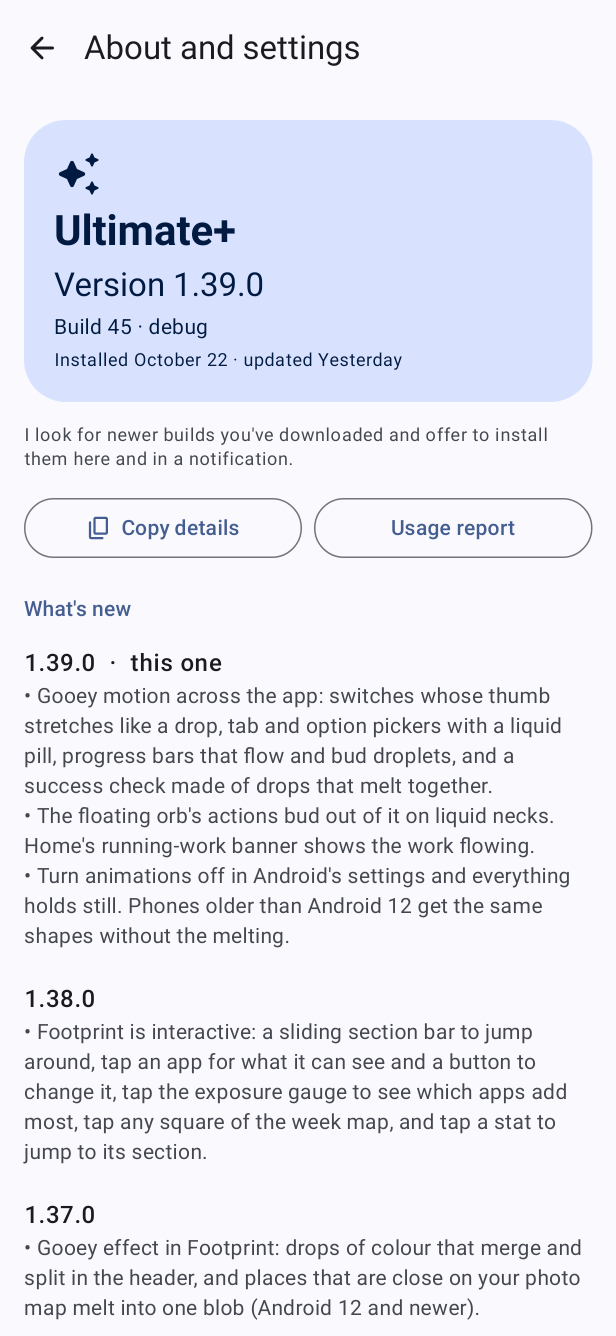
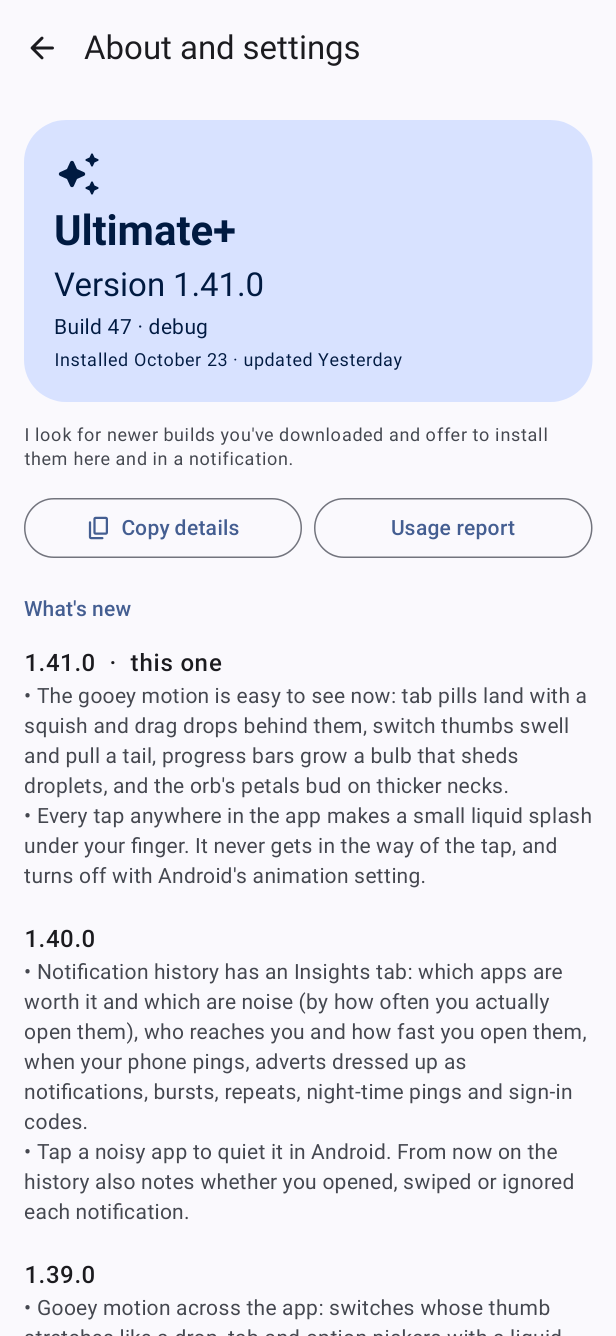
feat(motion): noticeable gooey everywhere: tap splash, squishy tabs, swelling switches, bulb progress (1.41.0)
Claude-Session: https://claude.ai/code/session_01Tx3SnRy1Ho2ASXx4YFffLW

Changed region(s): [[0.0308, 0.491, 0.9562, 1.0], [0.3393, 0.1841, 0.401, 0.2455]]

diff --git a/app/src/main/java/app/ultimate/core/Gooey.kt b/app/src/main/java/app/ultimate/core/Gooey.kt
@@ -59,6 +59,14 @@ import androidx.compose.ui.text.font.FontWeight
 import androidx.compose.ui.text.style.TextAlign
 import androidx.compose.ui.text.style.TextOverflow
 import androidx.compose.ui.unit.dp
+import androidx.compose.animation.core.Animatable
+import androidx.compose.runtime.mutableStateListOf
+import androidx.compose.runtime.rememberCoroutineScope
+import androidx.compose.ui.input.pointer.pointerInput
+import androidx.compose.ui.input.pointer.PointerEventPass
+import androidx.compose.foundation.gestures.awaitEachGesture
+import androidx.compose.foundation.gestures.awaitFirstDown
+import kotlinx.coroutines.launch
 
 /*
  * Gooey building blocks. Each one draws its moving shapes in a single Canvas with Modifier.gooey(), so shapes that
@@ -96,6 +104,26 @@ object GooeyMath {
         return Offset(kotlin.math.cos(a) * d, kotlin.math.sin(a) * d)
     }
 
+    /**
+     * A tap splash at time [t] (0 to 1): a drop swells under the finger, three droplets break off and fly out, then
+     * fall back in and everything shrinks away. Returns (offset from the touch, radius) pairs in units of [unit].
+     */
+    fun splash(t: Float, unit: Float, seed: Int = 0): List<Pair<Offset, Float>> {
+        val k = t.coerceIn(0f, 1f)
+        val core = unit * 16f * when { k < 0.3f -> k / 0.3f; k < 0.6f -> 1f; else -> (1f - k) / 0.4f }
+        // Out until 0.5, back in by 0.9: the droplets leave the drop and melt back into it.
+        val reach = unit * 30f * when { k < 0.15f -> 0f; k < 0.5f -> (k - 0.15f) / 0.35f; k < 0.9f -> (0.9f - k) / 0.4f; else -> 0f }
+        val drop = unit * 7f * when { k < 0.15f -> k / 0.15f; k < 0.85f -> 1f; else -> ((1f - k) / 0.15f) }
+        val turn = (seed % 360) * (Math.PI / 180).toFloat()
+        return listOf(Offset.Zero to core) + (0 until 3).map { i ->
+            val a = turn + (2 * Math.PI * i / 3).toFloat()
+            Offset(kotlin.math.cos(a) * reach, kotlin.math.sin(a) * reach) to drop
+        }
+    }
+
+    /** A thumb swells a little in the middle of its trip, like a drop stretched by moving: 1 at rest, up to 1 + [amount]. */
+    fun swell(pos: Float, amount: Float = 0.3f) = 1f + amount * kotlin.math.sin(Math.PI.toFloat() * pos.coerceIn(0f, 1f))
+
     /** The blobs of a progress bar that does not know how far along it is: x centres, as fractions of the width. */
     fun flowing(phase: Float): List<Float> = listOf(0f to 1f, 0.35f to 1.6f, 0.7f to 0.8f).map { (offset, speed) -> ((phase * speed + offset) % 1f) * 1.3f - 0.15f }
 }
@@ -113,20 +141,24 @@ fun GooeyTabs(labels: List<String>, selected: Int, onSelect: (Int) -> Unit, modi
     val haptics = LocalHapticFeedback.current
     val spots = remember(labels) { mutableStateMapOf<Int, Pair<Float, Float>>() }
     val target = spots[selected]
-    val left by animateFloatAsState(target?.first ?: 0f, moveSpec(motion, Spring.StiffnessMedium), label = "tabL")
-    val width by animateFloatAsState(target?.second ?: 0f, moveSpec(motion, Spring.StiffnessMedium), label = "tabW")
-    val left2 by animateFloatAsState(target?.first ?: 0f, moveSpec(motion, Spring.StiffnessLow), label = "tabL2")
-    val width2 by animateFloatAsState(target?.second ?: 0f, moveSpec(motion, Spring.StiffnessLow), label = "tabW2")
+    // The pill lands with a little squish; two drops follow it at slower speeds, so on the way they hang back on
+    // necks of liquid and are pulled in when the pill stops.
+    val left by animateFloatAsState(target?.first ?: 0f, moveSpec(motion, Spring.StiffnessMediumLow, Spring.DampingRatioLowBouncy), label = "tabL")
+    val width by animateFloatAsState(target?.second ?: 0f, moveSpec(motion, Spring.StiffnessMediumLow, Spring.DampingRatioLowBouncy), label = "tabW")
+    val mid = (target?.first ?: 0f) + (target?.second ?: 0f) / 2
+    val trail1 by animateFloatAsState(mid, moveSpec(motion, Spring.StiffnessLow), label = "tabT1")
+    val trail2 by animateFloatAsState(mid, moveSpec(motion, Spring.StiffnessVeryLow), label = "tabT2")
     val scroll = rememberScrollState()
     if (scrollable) LaunchedEffect(selected, target) { target?.let { scroll.animateScrollTo((it.first - 48f).toInt().coerceAtLeast(0)) } }
     val pill = MaterialTheme.colorScheme.primary
     val outer = if (scrollable) modifier.fillMaxWidth().horizontalScroll(scroll) else modifier.fillMaxWidth().clip(RoundedCornerShape(50)).background(MaterialTheme.colorScheme.surfaceContainerHigh)
     Box(outer.padding(3.dp)) {
-        Canvas(Modifier.matchParentSize().gooey(6f)) {
+        Canvas(Modifier.matchParentSize().gooey(9f)) {
             if (target == null) return@Canvas
             val h = size.height
             drawRoundRect(pill, Offset(left, 0f), Size(width, h), CornerRadius(h / 2))
-            drawRoundRect(pill, Offset(left2, h * 0.12f), Size(width2, h * 0.76f), CornerRadius(h / 2))
+            drawCircle(pill, h * 0.36f, Offset(trail1, h / 2))
+            drawCircle(pill, h * 0.26f, Offset(trail2, h / 2))
         }
         Row(if (scrollable) Modifier else Modifier.fillMaxWidth(), horizontalArrangement = Arrangement.spacedBy(if (scrollable) 4.dp else 0.dp)) {
             labels.forEachIndexed { i, text ->
@@ -155,6 +187,7 @@ fun GooeySwitch(checked: Boolean, onCheckedChange: ((Boolean) -> Unit)?, modifie
     val goal = if (checked) 1f else 0f
     val pos by animateFloatAsState(goal, moveSpec(motion, Spring.StiffnessMedium, Spring.DampingRatioMediumBouncy), label = "thumb")
     val lag by animateFloatAsState(goal, moveSpec(motion, Spring.StiffnessLow), label = "thumbLag")
+    val tail by animateFloatAsState(goal, moveSpec(motion, Spring.StiffnessVeryLow), label = "thumbTail")
     val track by animateColorAsState(if (checked) MaterialTheme.colorScheme.primary else MaterialTheme.colorScheme.surfaceContainerHighest, label = "track")
     val thumb by animateColorAsState(if (checked) MaterialTheme.colorScheme.onPrimary else MaterialTheme.colorScheme.outline, label = "thumbC")
     val edge = MaterialTheme.colorScheme.outline
@@ -164,11 +197,13 @@ fun GooeySwitch(checked: Boolean, onCheckedChange: ((Boolean) -> Unit)?, modifie
             drawRoundRect(track, cornerRadius = CornerRadius(size.height / 2))
             if (pos < 1f) drawRoundRect(edge.copy(alpha = 1f - pos), topLeft = Offset(1.dp.toPx(), 1.dp.toPx()), size = Size(size.width - 2.dp.toPx(), size.height - 2.dp.toPx()), cornerRadius = CornerRadius(size.height / 2), style = Stroke(2.dp.toPx()))
         }) {
-            Canvas(Modifier.matchParentSize().gooey(4f)) {
-                val r = GooeyMath.lerp(8.dp.toPx(), 12.dp.toPx(), pos.coerceIn(0f, 1.2f))
+            Canvas(Modifier.matchParentSize().gooey(6f)) {
+                // The thumb swells mid-way and drags two smaller drops behind it, which it swallows when it lands.
+                val r = GooeyMath.lerp(8.dp.toPx(), 12.dp.toPx(), pos.coerceIn(0f, 1.2f)) * GooeyMath.swell(pos, 0.25f)
                 val inset = 16.dp.toPx()
                 drawCircle(thumb, r, Offset(GooeyMath.thumbX(pos, size.width, inset), size.height / 2))
-                drawCircle(thumb, r * 0.75f, Offset(GooeyMath.thumbX(lag, size.width, inset), size.height / 2))
+                drawCircle(thumb, r * 0.7f, Offset(GooeyMath.thumbX(lag, size.width, inset), size.height / 2))
+                drawCircle(thumb, r * 0.45f, Offset(GooeyMath.thumbX(tail, size.width, inset), size.height / 2))
             }
         }
     }
@@ -189,11 +224,14 @@ fun GooeyProgress(progress: () -> Float, modifier: Modifier = Modifier, color: C
     val working = live && motion && p > 0.005f && p < 0.995f
     val bob = if (working) rememberInfiniteTransition(label = "bob").animateFloat(0f, 1f, infiniteRepeatable(tween(900, easing = LinearEasing), RepeatMode.Reverse), label = "bob").value else 0f
     Box(modifier.defaultMinSize(minHeight = 6.dp).progressSemantics(p).drawBehind { drawRoundRect(trackColor, cornerRadius = CornerRadius(size.height / 2)) }) {
-        Spacer(Modifier.matchParentSize().gooey(2f).drawBehind {
+        Spacer(Modifier.matchParentSize().gooey(3f).drawBehind {
             val h = size.height
             if (head > 0.001f) drawRoundRect(color, size = Size((size.width * head).coerceAtLeast(h), h), cornerRadius = CornerRadius(h / 2))
             if (body > 0.001f) drawRoundRect(color, topLeft = Offset(0f, h * 0.2f), size = Size((size.width * body).coerceAtLeast(h), h * 0.6f), cornerRadius = CornerRadius(h / 2))
-            if (working) drawCircle(color, h * 0.42f, Offset(size.width * head + h * 0.2f + bob * h * 1.1f, h / 2))
+            // A bulb on the leading edge while it moves or works, and a droplet that breaks off it and is pulled back.
+            val moving = kotlin.math.abs(head - body) > 0.01f
+            if (head > 0.001f && (working || moving)) drawCircle(color, h * 0.62f, Offset(size.width * head, h / 2))
+            if (working) drawCircle(color, h * 0.5f, Offset(size.width * head + h * 0.4f + bob * h * 2.2f, h / 2))
         })
     }
 }
@@ -211,6 +249,40 @@ fun GooeyProgress(modifier: Modifier = Modifier, color: Color = MaterialTheme.co
         })
     }
 }
+
+/**
+ * Wraps the whole app so every tap answers with a small splash of liquid: a faint drop swells under the finger,
+ * droplets break off and melt back in, and it is gone in half a second. It only watches touches (never takes them),
+ * draws nothing between taps, and stays off when animations are off.
+ */
+@Composable
+fun GooeyTouches(modifier: Modifier = Modifier, content: @Composable () -> Unit) {
+    val motion = motionOn()
+    val splashes = remember { mutableStateListOf<Splash>() }
+    val scope = rememberCoroutineScope()
+    val ink = MaterialTheme.colorScheme.primary
+    Box(modifier.then(if (!motion) Modifier else Modifier.pointerInput(Unit) {
+        var n = 0
+        awaitEachGesture {
+            val down = awaitFirstDown(requireUnconsumed = false, pass = PointerEventPass.Initial)
+            if (splashes.size < 4) {
+                val s = Splash(down.position, Animatable(0f), (n++ * 47) % 360)
+                splashes += s
+                scope.launch { s.t.animateTo(1f, tween(520, easing = LinearEasing)); splashes.remove(s) }
+            }
+        }
+    })) {
+        content()
+        if (splashes.isNotEmpty()) Box(Modifier.matchParentSize().alpha(0.2f)) {
+            Canvas(Modifier.matchParentSize().gooey(8f)) {
+                splashes.forEach { s -> GooeyMath.splash(s.t.value, 1.dp.toPx(), s.seed).forEach { (o, r) -> if (r > 0.5f) drawCircle(ink, r, s.at + o) } }
+            }
+        }
+    }
+}
+
+/** One tap's splash in flight. */
+class Splash(val at: Offset, val t: Animatable<Float, androidx.compose.animation.core.AnimationVector1D>, val seed: Int)
 
 /** Shorthand used by the Footprint page and others: a gooey pill row sized for a section bar. */
 @Composable

diff --git a/app/src/test/java/app/ultimate/GooeyTest.kt b/app/src/test/java/app/ultimate/GooeyTest.kt
@@ -59,6 +59,22 @@ class GooeyMathTest {
         (0 until 6).forEach { i -> assertEquals(Offset.Zero.getDistance(), GooeyMath.converge(i, 6, 1f, 10f).getDistance(), 1e-4f) }
     }
 
+    @Test fun tapSplashGrowsSplitsMergesAndVanishes() {
+        assertEquals(4, GooeyMath.splash(0.5f, 1f).size)
+        assertTrue(GooeyMath.splash(0f, 1f).all { it.second == 0f })                       // nothing before the tap lands
+        val out = GooeyMath.splash(0.5f, 1f)
+        assertEquals(16f, out[0].second, 1e-3f)                                            // the drop at full size
+        out.drop(1).forEach { (o, r) -> assertEquals(30f, o.getDistance(), 1e-3f); assertEquals(7f, r, 1e-3f) } // droplets flung out
+        GooeyMath.splash(0.9f, 1f).drop(1).forEach { (o, _) -> assertEquals(0f, o.getDistance(), 1e-3f) }   // and pulled back in
+        assertTrue(GooeyMath.splash(1f, 1f).all { it.second == 0f })                       // gone at the end
+        assertEquals(32f, GooeyMath.splash(0.5f, 2f)[0].second, 1e-3f)                    // scales with density
+    }
+
+    @Test fun thumbSwellsOnlyMidway() {
+        assertEquals(1f, GooeyMath.swell(0f), 1e-4f); assertEquals(1f, GooeyMath.swell(1f), 1e-4f)
+        assertEquals(1.3f, GooeyMath.swell(0.5f), 1e-4f); assertEquals(1f, GooeyMath.swell(1.5f), 1e-4f)
+    }
+
     @Test fun flowingDropsStayNearTheTrack() {
         for (k in 0..100) GooeyMath.flowing(k / 100f).forEach { x -> assertTrue("$x", x in -0.15f..1.15f) }
         assertEquals(3, GooeyMath.flowing(0f).size)
@@ -82,6 +98,14 @@ class GooeyComponentsTest {
         compose.onNodeWithTag("s").performClick(); compose.onNodeWithTag("s").assertIsOn()
         compose.onNodeWithTag("s").performClick(); compose.onNodeWithTag("s").assertIsOff()
         assertEquals(listOf(true, false), changed)
+    }
+
+    @Test fun tapSplashNeverTakesTheTap() {
+        var clicks = 0
+        compose.setContent { MaterialTheme { app.ultimate.core.GooeyTouches { androidx.compose.material3.Button({ clicks++ }) { androidx.compose.material3.Text("Go") } } } }
+        compose.onNodeWithText("Go").performClick(); compose.onNodeWithText("Go").performClick()
+        compose.waitForIdle()
+        assertEquals(2, clicks)
     }
 
     @Test fun disabledSwitchDoesNothing() {

diff --git a/app/src/main/java/app/ultimate/orb/OrbService.kt b/app/src/main/java/app/ultimate/orb/OrbService.kt
@@ -476,7 +476,7 @@ private fun Bloom(
         actions.indices.forEach { i -> LaunchedEffect(open) { val t = ts[i]; if (!motion) t.snapTo(if (open) 1f else 0f) else if (open) { delay(28L * i); t.animateTo(1f, spring(0.55f, 380f)) } else t.animateTo(0f, tween(180)) } }
         // The petals' discs, drawn as one gooey layer: each buds out of the orb on a neck of liquid that thins and
         // snaps as it flies, and is pulled back in the same way. Before Android 12 the discs are simply drawn plain.
-        Canvas(Modifier.fillMaxSize().gooey(10f)) {
+        Canvas(Modifier.fillMaxSize().gooey(14f)) {
             val ocx = cx - origin.x; val ocy = cy - origin.y
             val petal = 27.dp.toPx()
             if (ts.any { it.value < 0.98f }) drawCircle(PETAL, orbPx / 2f - 4.dp.toPx(), Offset(ocx, ocy))
@@ -486,7 +486,7 @@ private fun Bloom(
                 val x = ocx + (px - cx) * v; val y = ocy + (py - cy) * v
                 drawCircle(PETAL, petal * (0.4f + 0.6f * v.coerceIn(0f, 1f)), Offset(x, y))
                 val neck = (1f - v).coerceIn(0f, 1f)
-                if (neck > 0.05f) for (k in 1..3) { val f = k / 4f; drawCircle(PETAL, petal * 0.42f * neck, Offset(ocx + (x - ocx) * f, ocy + (y - ocy) * f)) }
+                if (neck > 0.05f) for (k in 1..3) { val f = k / 4f; drawCircle(PETAL, petal * 0.55f * neck, Offset(ocx + (x - ocx) * f, ocy + (y - ocy) * f)) }
             }
         }
         actions.forEachIndexed { i, a ->

diff --git a/app/src/main/java/app/ultimate/home/UltimateRoot.kt b/app/src/main/java/app/ultimate/home/UltimateRoot.kt
@@ -45,6 +45,7 @@ import androidx.compose.ui.Modifier
 import androidx.compose.ui.platform.LocalContext
 import androidx.lifecycle.compose.collectAsStateWithLifecycle
 import app.ultimate.UltimateApp
+import app.ultimate.core.GooeyTouches
 import app.ultimate.core.LocalShellNav
 import app.ultimate.core.ShellNav
 import app.ultimate.core.ToolLaunch
@@ -61,8 +62,11 @@ fun UltimateRoot(app: UltimateApp) {
     val standalone = app.tools.size == 1
     val nav = remember { ShellNav(standalone, openLibrary = shell::showLibraryForCurrentTool, openActivity = shell::showActivity, openAbout = shell::showAbout, tools = app.tools, send = { t, uris -> shell.open(t, ToolLaunch(uris)) }) }
 
+    // Every tap anywhere in the app answers with a small gooey splash under the finger.
     CompositionLocalProvider(LocalShellNav provides nav) {
-        if (standalone) StandaloneRoot(app, route, onExitApp = { (context as? Activity)?.finish() }) else SuiteRoot(app, route)
+        GooeyTouches(Modifier.fillMaxSize()) {
+            if (standalone) StandaloneRoot(app, route, onExitApp = { (context as? Activity)?.finish() }) else SuiteRoot(app, route)
+        }
     }
 
     incoming?.let { pending -> HandSheet(app, pending) }

diff --git a/app/src/main/java/app/ultimate/home/AboutInfo.kt b/app/src/main/java/app/ultimate/home/AboutInfo.kt
@@ -34,6 +34,10 @@ object Changelog {
     data class Entry(val version: String, val notes: List<String>)
 
     val entries = listOf(
+        Entry("1.41.0", listOf(
+            "The gooey motion is easy to see now: tab pills land with a squish and drag drops behind them, switch thumbs swell and pull a tail, progress bars grow a bulb that sheds droplets, and the orb's petals bud on thicker necks.",
+            "Every tap anywhere in the app makes a small liquid splash under your finger. It never gets in the way of the tap, and turns off with Android's animation setting.",
+        )),
         Entry("1.40.0", listOf(
             "Notification history has an Insights tab: which apps are worth it and which are noise (by how often you actually open them), who reaches you and how fast you open them, when your phone pings, adverts dressed up as notifications, bursts, repeats, night-time pings and sign-in codes.",
             "Tap a noisy app to quiet it in Android. From now on the history also notes whether you opened, swiped or ignored each notification.",

diff --git a/app/src/test/java/app/ultimate/AboutTest.kt b/app/src/test/java/app/ultimate/AboutTest.kt
@@ -33,7 +33,7 @@ class AboutTest {
 
     @Test fun theChangelogStartsAtTheCurrentVersion() {
         assertEquals(listOf("1.30.0", "1.29.0"), Changelog.recent("1.30.0", 2).map { it.version })
-        assertEquals("1.40.0", Changelog.entries.first().version)
+        assertEquals("1.41.0", Changelog.entries.first().version)
         assertEquals(Changelog.entries.first().version, Changelog.recent("9.9.9", 1).single().version) // an unknown version still shows the latest news
         assertTrue(Changelog.entries.map { it.version }.toSet().size == Changelog.entries.size)
     }

diff --git a/app/src/main/java/app/ultimate/footprint/FootprintCharts.kt b/app/src/main/java/app/ultimate/footprint/FootprintCharts.kt
@@ -89,7 +89,7 @@ internal fun LiveHero(title: String, body: String) {
             .background(Brush.linearGradient(listOf(a, b, a), start = Offset(-400f + 900f * drift, 0f), end = Offset(400f + 900f * drift, 500f))),
     ) {
         // Drops of colour that drift, drift together and pull apart, with the gooey effect.
-        Box(Modifier.matchParentSize().alpha(0.28f)) {
+        Box(Modifier.matchParentSize().alpha(0.4f)) {
             Canvas(Modifier.matchParentSize().gooey(12f)) {
                 val u = 1.dp.toPx()
                 for (i in 0 until 7) {
